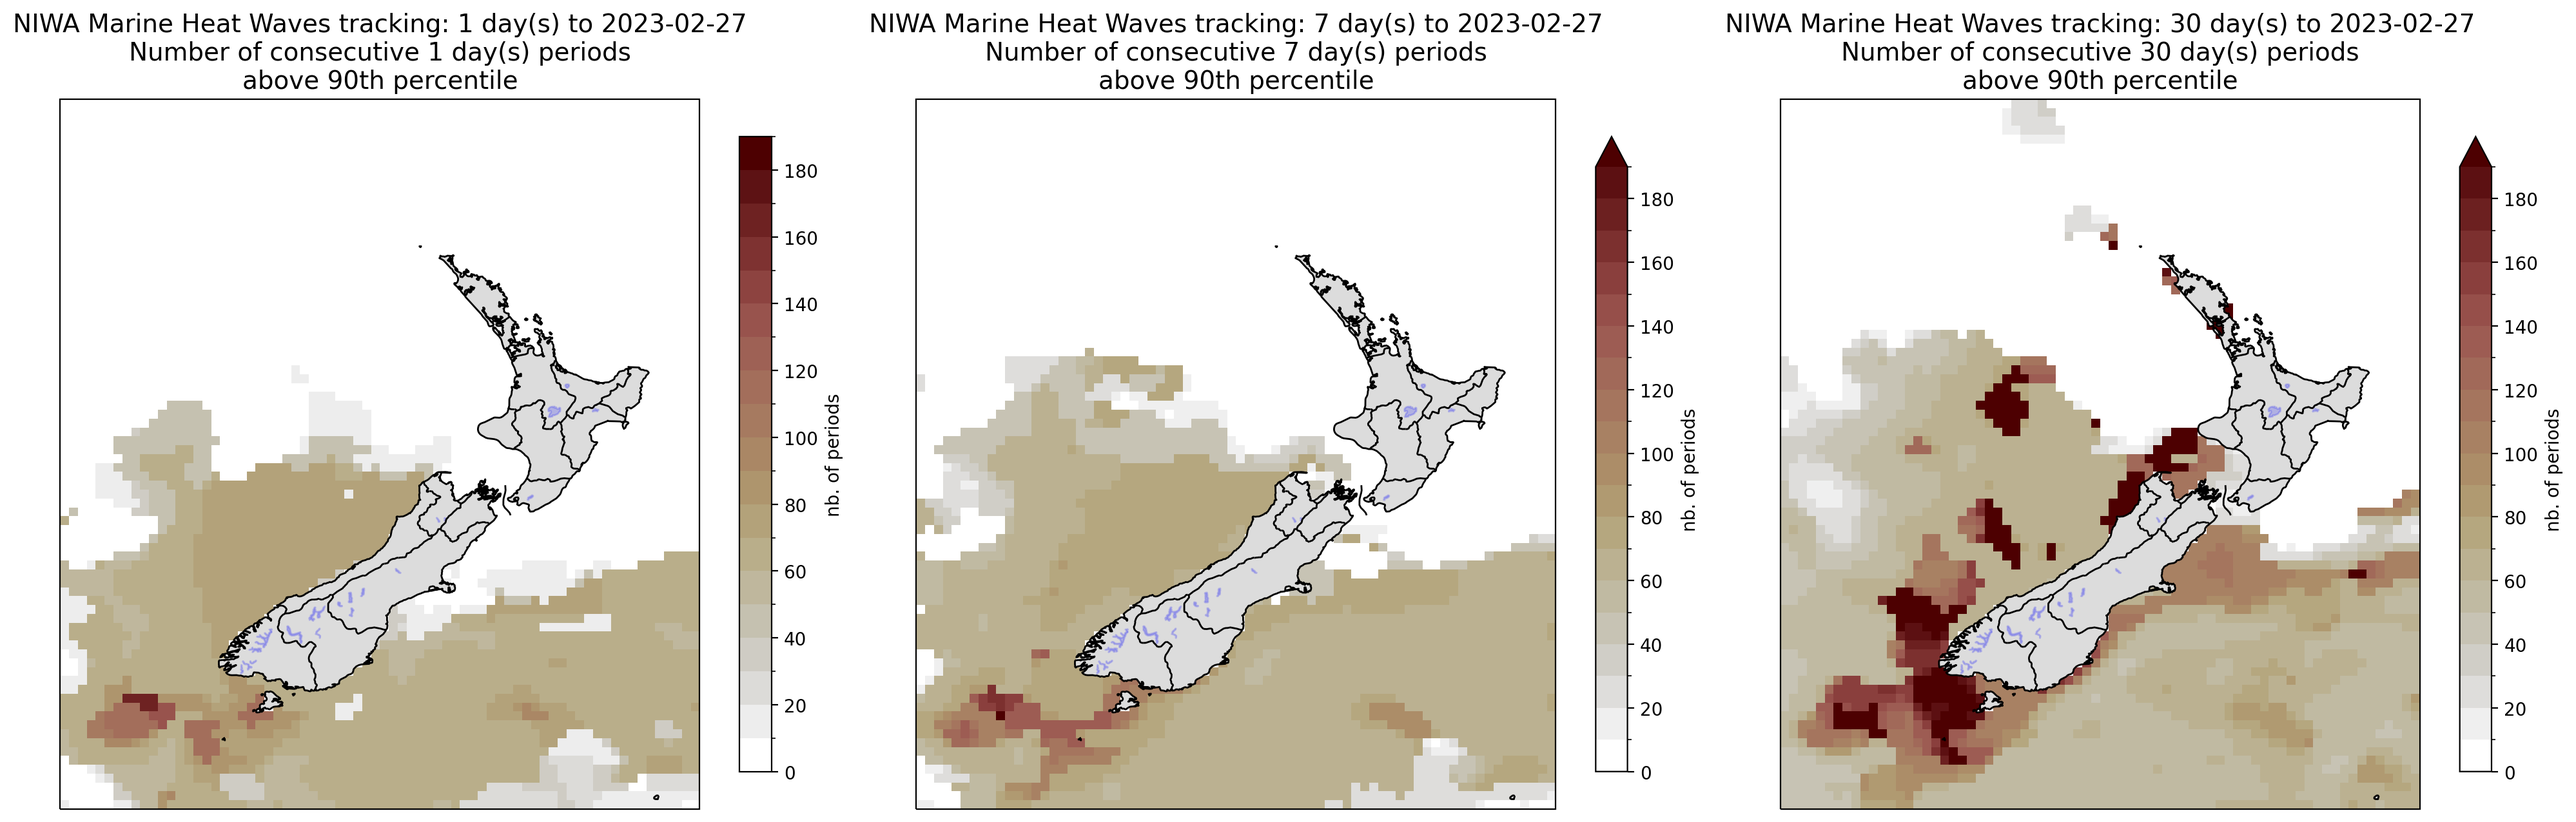
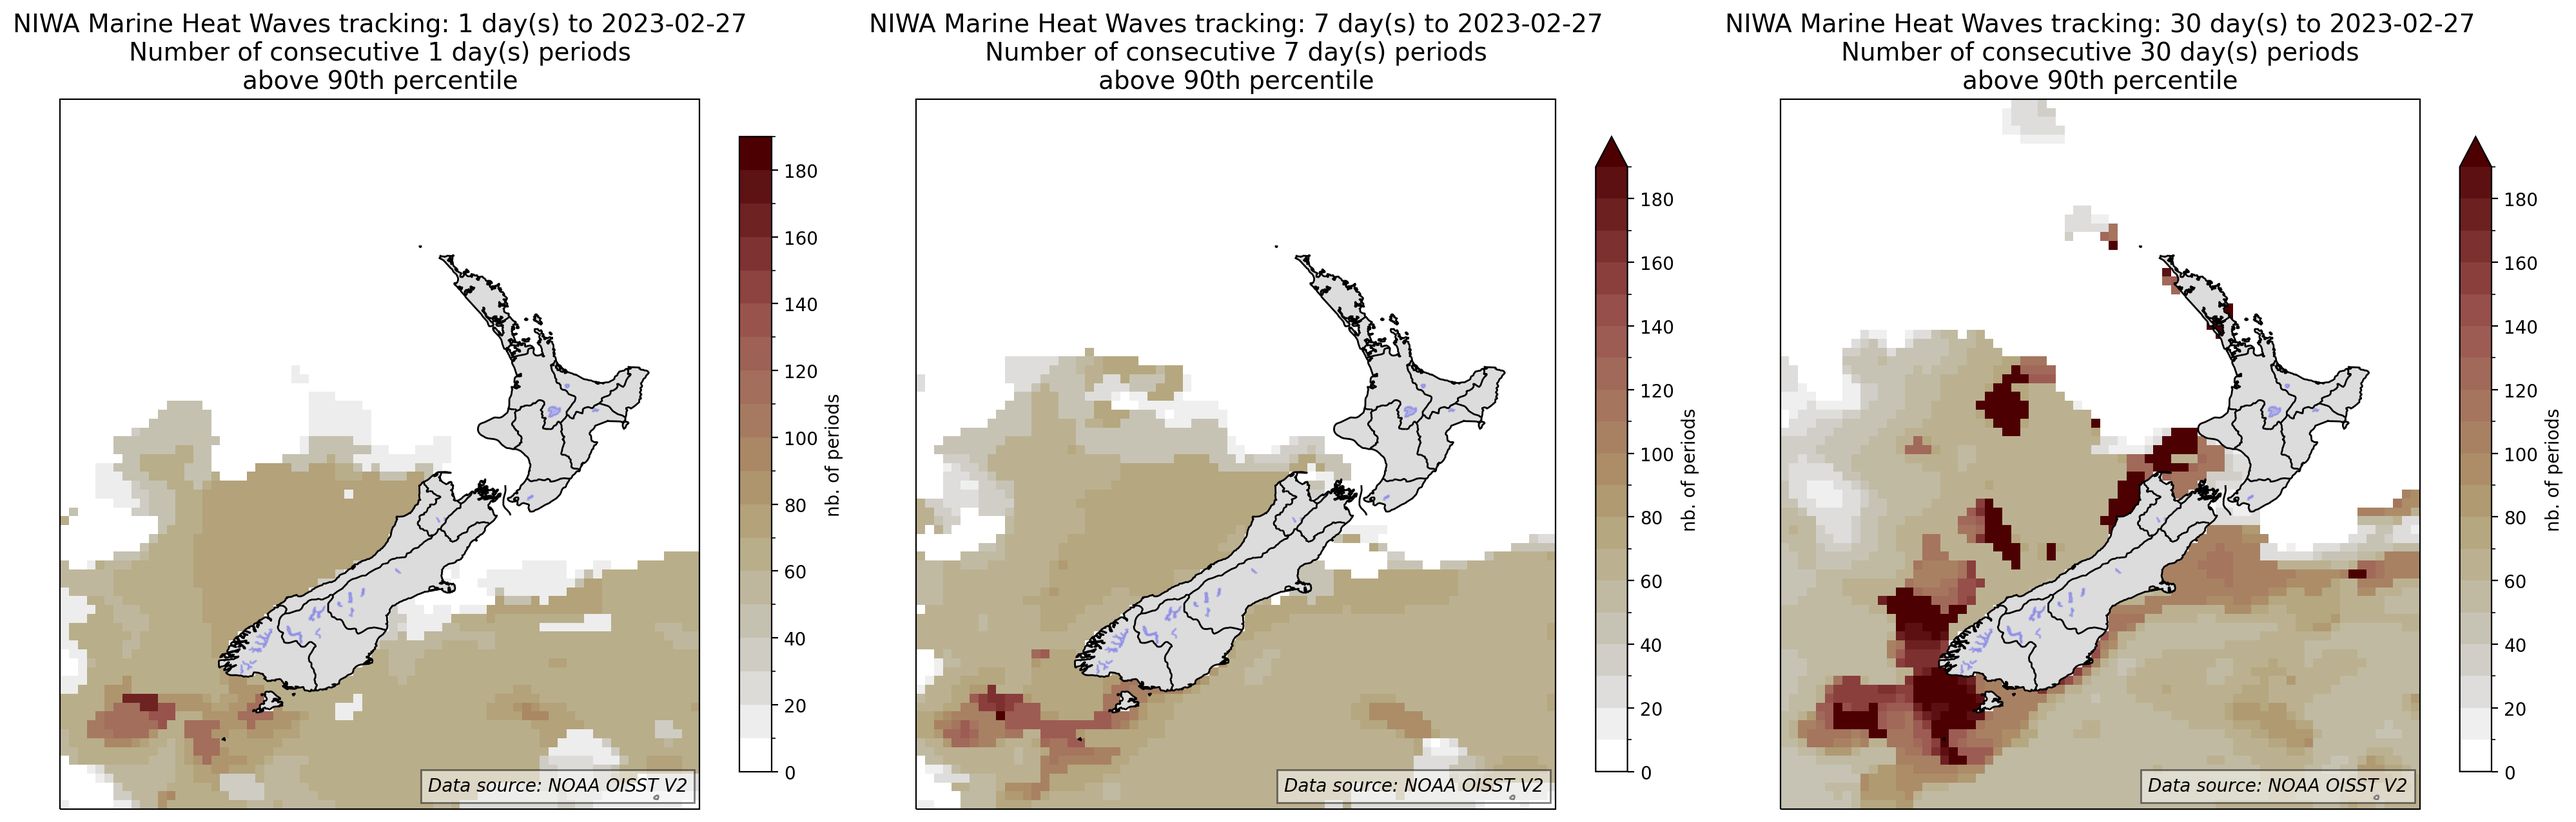
updated images

Changed region(s): [[0.8068, 0.9169, 0.962, 0.9781], [0.4965, 0.9169, 0.6206, 0.9781], [0.1552, 0.9169, 0.2793, 0.9781]]

diff --git a/src/OISST/OISST.py b/src/OISST/OISST.py
@@ -440,7 +440,7 @@ def plot_SST_map(
 
     if kind == "anomalies":
 
-        title = f"NIWA Marine Heat Waves tracking: {ndays_agg} day(s) anomalies* to {date:%Y-%m-%d}"
+        title = f"NIWA Marine Heat Waves tracking\n{ndays_agg} day(s) anomalies* to {date:%Y-%m-%d}"
 
         cbar_label = "SST anomaly (°C)"
 
@@ -474,7 +474,7 @@ def plot_SST_map(
 
     ax.set_title(None)
 
-    ax.set_title(title, fontsize=14, loc="left", ha="left")
+    ax.set_title(title, fontsize=14, loc="center", ha="center")
 
     ax.text(
         0.025,
@@ -499,14 +499,15 @@ def plot_SST_map(
 
 
     ax.text(
-        0.9,
-        -0.05,
+        0.575,
+        0.025,
         "Data source: NOAA OISST V2",
         transform=ax.transAxes,
         ha="left",
-        fontsize=12,
+        fontsize=10,
         color="k",
         style="italic",
+        bbox=dict(facecolor='white', alpha=0.5)
     )
 
     return (f, ax)

diff --git a/scripts/OISST_realtime_NZ_maps.py b/scripts/OISST_realtime_NZ_maps.py
@@ -251,6 +251,18 @@ ax.set_title(
     fontsize=14,
 )
 
+ax.text(
+    0.575,
+    0.025,
+    "Data source: NOAA OISST V2",
+    transform=ax.transAxes,
+    ha="left",
+    fontsize=10,
+    color="k",
+    style="italic",
+    bbox=dict(facecolor='white', alpha=0.5)
+)
+
 # %%
 f.savefig(
     fig_path.joinpath(f"proto_OISST_heatwave_days_{ndays_agg:02d}_days_to_{last_day:%Y-%m-%d}.png"),
